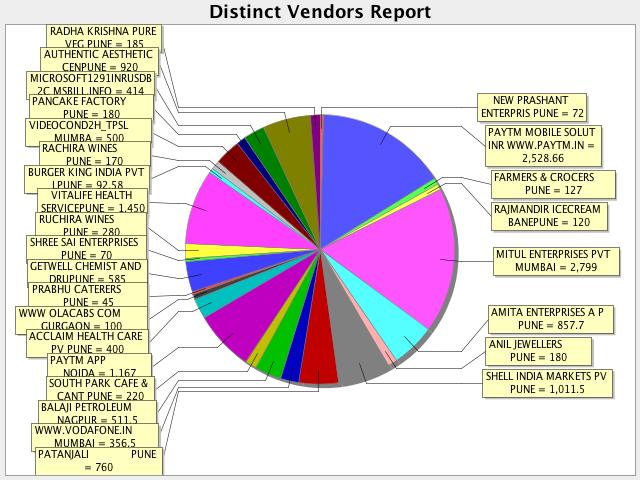
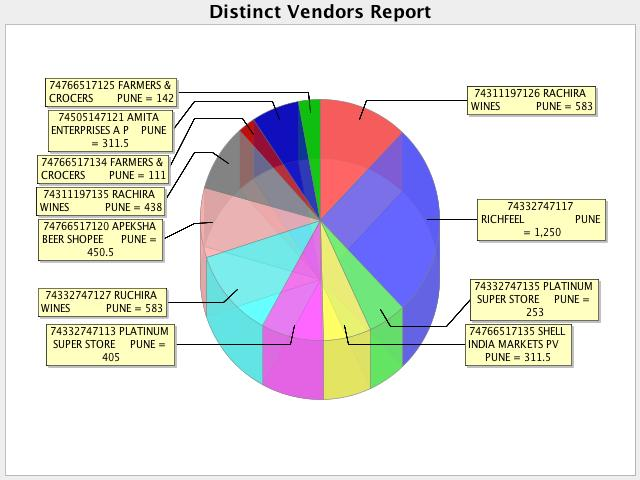
updated pie chart to 3d

diff --git a/src/main/java/com/billmartam/pdf/PdfReaderView.java b/src/main/java/com/billmartam/pdf/PdfReaderView.java
@@ -9,6 +9,7 @@ import com.billmartam.report.TransactionReport;
 import com.billmartam.transaction.TransactionSearch;
 import com.billmartam.util.Util;
 import org.jfree.chart.*;
+import org.jfree.chart.plot.PiePlot3D;
 import org.jfree.data.general.Dataset;
 import org.jfree.data.general.DefaultPieDataset;
 import org.jfree.data.general.PieDataset;
@@ -447,13 +448,17 @@ public class PdfReaderView {
     }
 
     private static JFreeChart createPieChart(PieDataset dataset, String title) {
-        chart = ChartFactory.createPieChart(
+        chart = ChartFactory.createPieChart3D(
                 title,   // chart title
                 dataset,          // data
                 false,             // include legend
                 true,
                 false);
 
+        final PiePlot3D plot = ( PiePlot3D ) chart.getPlot( );
+        plot.setStartAngle( 90 );
+        plot.setForegroundAlpha( 0.70f );
+        plot.setInteriorGap( 0.3 );
         return chart;
     }
 
